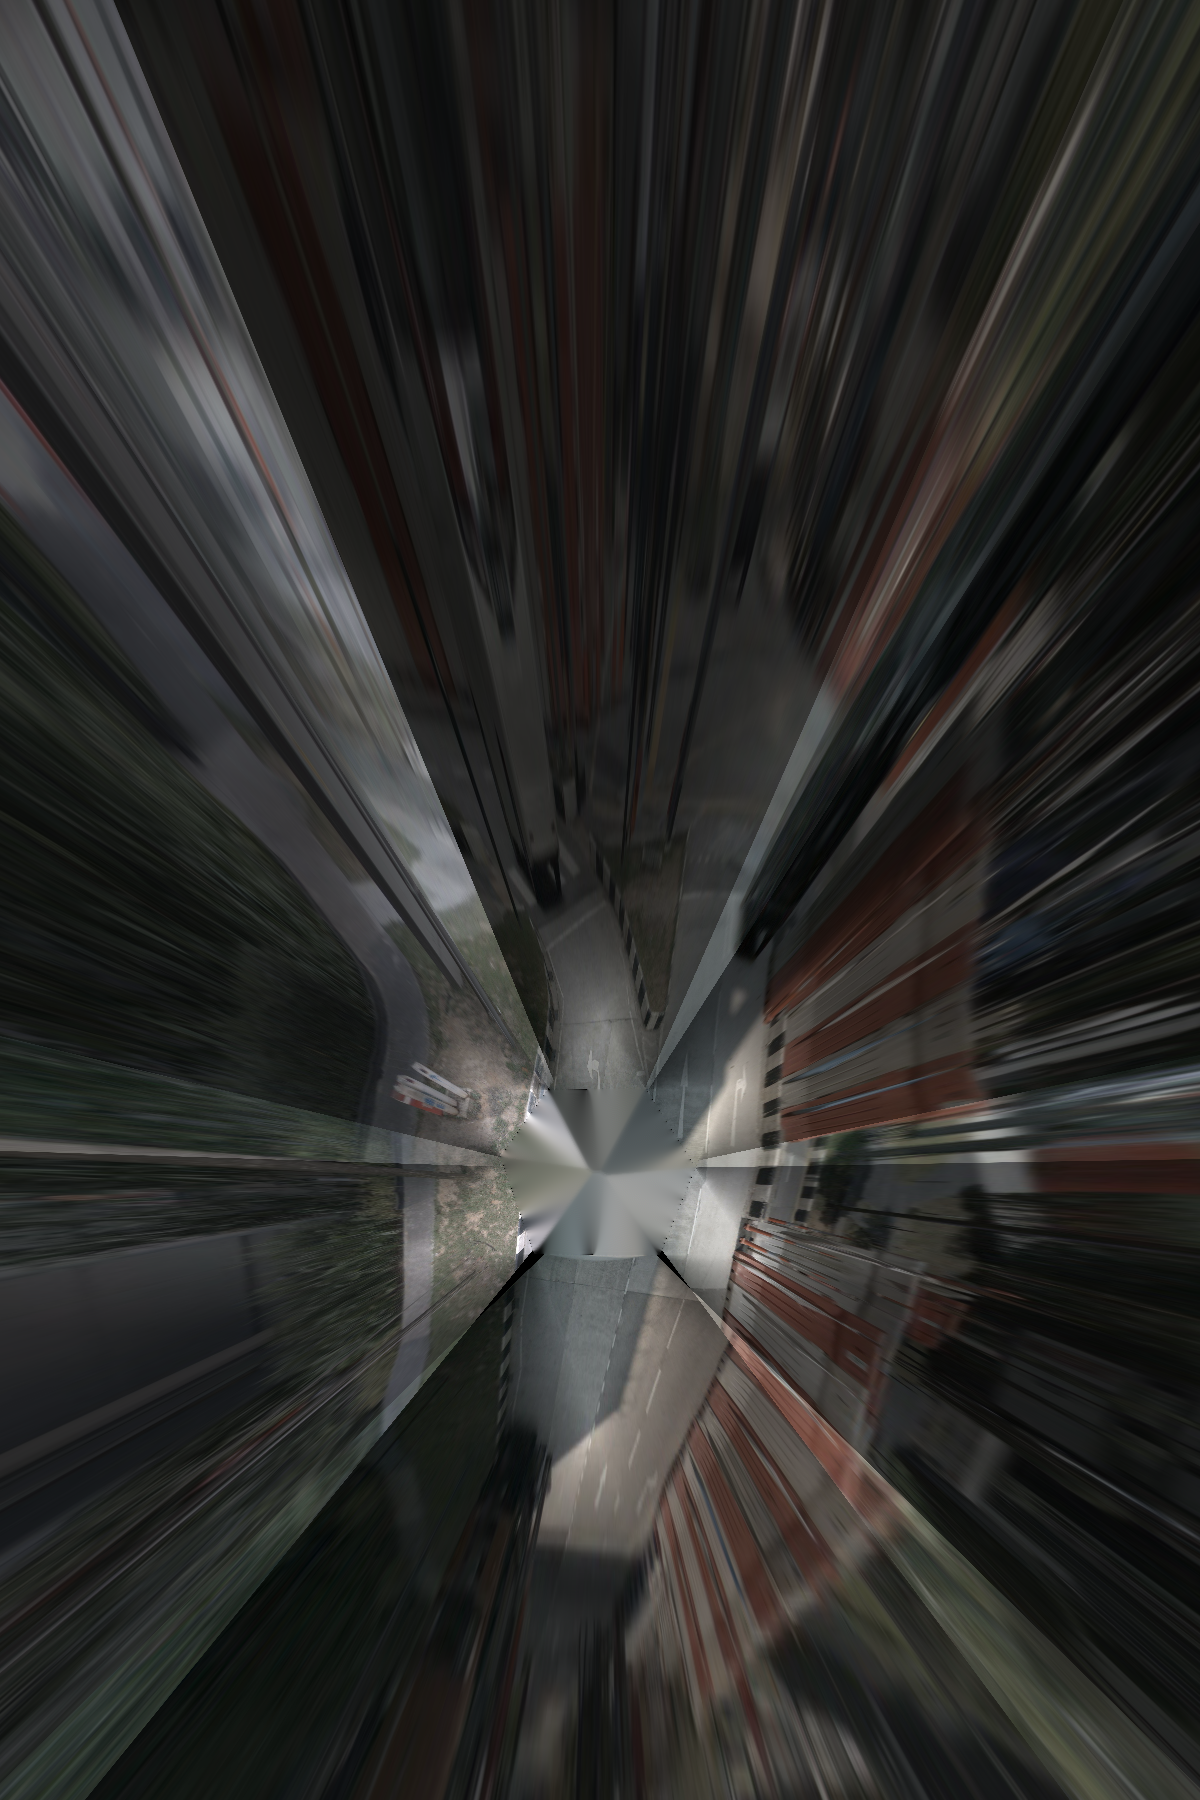
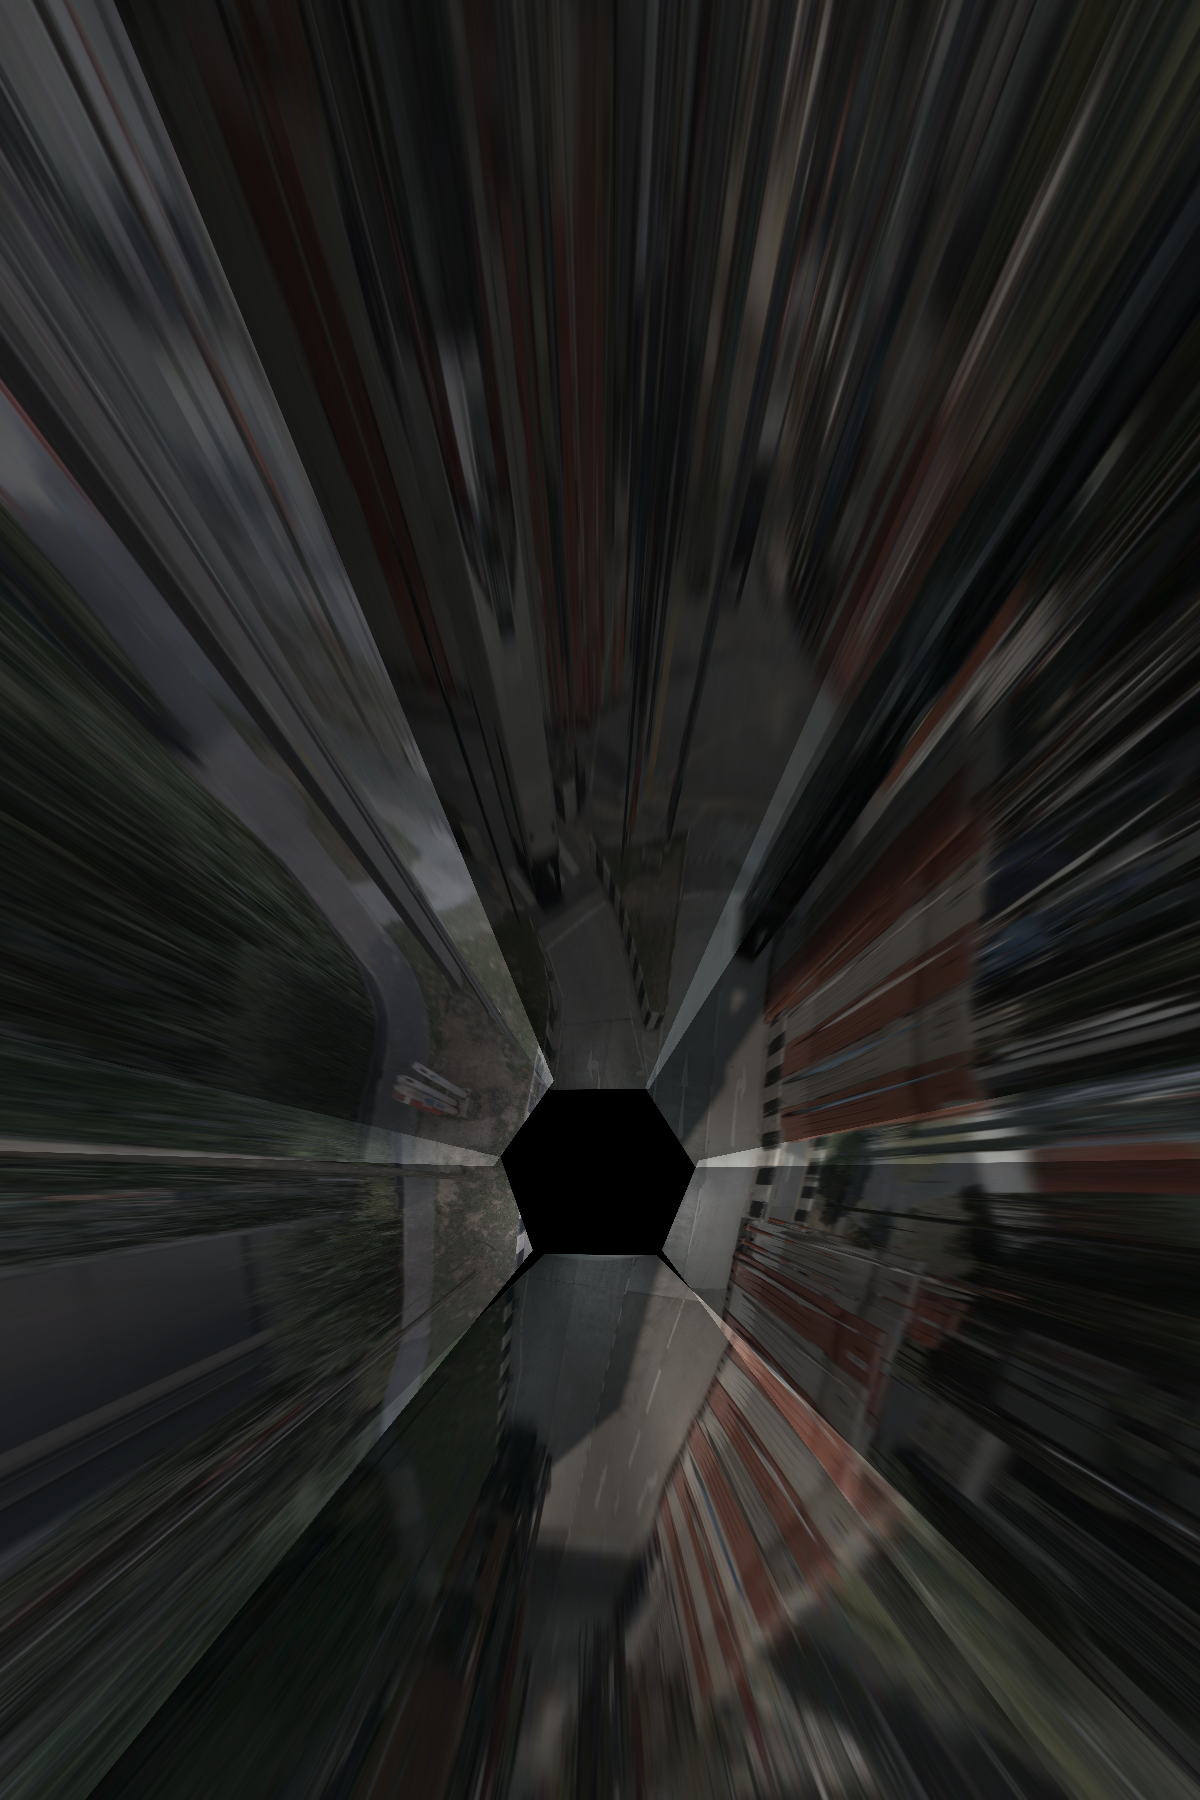
fix

diff --git a/runProjection.py b/runProjection.py
@@ -4,10 +4,26 @@ from __future__ import annotations
 
 import argparse
 import os
+import sys
 from typing import Dict, Tuple, Optional
 
 import cv2
 import numpy as np
+
+# --- Robust import path setup (fixes ModuleNotFoundError on Windows/EC2) ---
+# Ensure Python can import modules that live either:
+#   1) next to runProjection.py   (./bev_grid.py)
+#   2) inside a subfolder         (./bev/bev_grid.py)
+_THIS_DIR = os.path.dirname(os.path.abspath(__file__))
+
+# Always allow importing from the script directory
+if _THIS_DIR not in sys.path:
+    sys.path.insert(0, _THIS_DIR)
+
+# Also allow importing from ./bev even if it's not a Python package (no __init__.py)
+_BEV_DIR = os.path.join(_THIS_DIR, "bev")
+if os.path.isdir(_BEV_DIR) and _BEV_DIR not in sys.path:
+    sys.path.insert(0, _BEV_DIR)
 
 from nuscenes_io import (
     init_nuscenes,
@@ -16,10 +32,11 @@ from nuscenes_io import (
     get_camera_calibration_for_sample,
     get_ego_pose_for_sample_data,
     iter_scene_samples,
+    select_sample,
 )
 from bev_grid import BEVGrid
 from projection import warp_image_to_bev
-from stitching import feather_weight
+from stitching import feather_weight, stitch_warped, wsum_to_vis
 from utils import invert_se3
 
 
@@ -131,17 +148,81 @@ def accumulate_scene_world_bev(
     return out, wsum
 
 
+def project_single_sample(
+    nusc,
+    scene: str,
+    index: int,
+    grid: BEVGrid,
+    z_plane: float = 0.0,
+    feather_px: int = 80,
+    fill_holes: bool = False,
+    inpaint_radius: int = 5,
+    save_per_camera: bool = False,
+    out_dir: str = "",
+) -> Tuple[np.ndarray, np.ndarray]:
+    """
+    Project a single sample's 6 cameras into ego-frame BEV.
+    """
+    selection = select_sample(nusc, scene=scene, index=index)
+    sample = nusc.get("sample", selection.sample_token)
+    
+    cam_sd_tokens = {ch: cam.sample_data_token for ch, cam in selection.cameras.items()}
+    calibs = get_camera_calibration_for_sample(nusc, cam_sd_tokens)
+    
+    warped_by_cam: Dict[str, np.ndarray] = {}
+    valid_by_cam: Dict[str, np.ndarray] = {}
+    
+    for ch, cam_frame in selection.cameras.items():
+        img_bgr = cv2.imread(cam_frame.filename_abs, cv2.IMREAD_COLOR)
+        if img_bgr is None:
+            raise FileNotFoundError(f"Failed to read image: {cam_frame.filename_abs}")
+        
+        calib = calibs[ch]
+        warped, valid = warp_image_to_bev(
+            img_bgr=img_bgr,
+            grid=grid,
+            K=calib.K,
+            T_cam_from_ego=calib.T_cam_from_ego,
+            z_plane=z_plane,
+        )
+        
+        warped_by_cam[ch] = warped
+        valid_by_cam[ch] = valid
+        
+        if save_per_camera and out_dir:
+            cv2.imwrite(os.path.join(out_dir, f"{ch}_bev.png"), warped)
+    
+    stitched, wsum = stitch_warped(
+        warped_by_cam,
+        valid_by_cam,
+        feather_px=feather_px,
+        fill_holes=fill_holes,
+        inpaint_radius=inpaint_radius,
+    )
+    
+    return stitched, wsum
+
+
 def main():
     ap = argparse.ArgumentParser()
     ap.add_argument("--dataroot", required=True)
     ap.add_argument("--version", default="v1.0-mini")
     ap.add_argument("--scene", required=True, help="scene token or name like scene-0061")
 
-    # Output
+    # Single sample mode
+    ap.add_argument("--index", type=int, default=None, help="sample index within scene (enables single-sample mode)")
+    
+    # Output (single sample mode)
+    ap.add_argument("--out", default=None, help="output BEV image (single-sample mode)")
+    ap.add_argument("--out_dir", default="", help="output directory for single-sample mode")
+    ap.add_argument("--save_per_camera", action="store_true", help="save per-camera BEV images")
+    ap.add_argument("--save_wsum", action="store_true", help="save weight sum visualization")
+    
+    # Output (world mosaic mode)
     ap.add_argument("--out_bev", default="world_bev.png")
-    ap.add_argument("--out_wsum", default="world_wsum.png")
+    ap.add_argument("--out_wsum_file", default="world_wsum.png")
 
-    # World grid / bounds
+    # Grid / bounds
     ap.add_argument("--res", type=float, default=0.2, help="meters per pixel")
     ap.add_argument("--pad", type=float, default=60.0, help="padding around trajectory for auto-bounds (m)")
     ap.add_argument("--x_min", type=float, default=None)
@@ -149,16 +230,20 @@ def main():
     ap.add_argument("--y_min", type=float, default=None)
     ap.add_argument("--y_max", type=float, default=None)
 
-    # Frame range
+    # Frame range (world mosaic mode)
     ap.add_argument("--start", type=int, default=0)
     ap.add_argument("--end", type=int, default=None)
     ap.add_argument("--step", type=int, default=1)
 
     # Geometry / blending
-    ap.add_argument("--z_plane_rel_ego", type=float, default=0.0)
+    ap.add_argument("--z_plane", type=float, default=0.0, help="ground plane height in ego frame (single-sample mode)")
+    ap.add_argument("--z_plane_rel_ego", type=float, default=0.0, help="ground plane relative to ego (world mosaic mode)")
     ap.add_argument("--feather_px", type=int, default=80)
+    ap.add_argument("--fill_holes", action="store_true", help="Visual-only: inpaint wsum==0 pixels (single-sample mode)")
+    ap.add_argument("--inpaint_radius", type=int, default=5, help="Inpaint radius for hole filling")
     ap.add_argument("--roi_vmin", type=float, default=None)
     ap.add_argument("--roi_vmax", type=float, default=None)
+    ap.add_argument("--no_flip_axes", action="store_true", help="Keep legacy axes (x down, y right)")
 
     args = ap.parse_args()
 
@@ -166,6 +251,71 @@ def main():
     scene_token, scene_name = resolve_scene_token(nusc, args.scene)
     print(f"[INFO] scene={scene_name} token={scene_token}")
 
+    # Single-sample mode
+    if args.index is not None:
+        # Use provided bounds or defaults for single-sample
+        x_min = args.x_min if args.x_min is not None else -30.0
+        x_max = args.x_max if args.x_max is not None else 60.0
+        y_min = args.y_min if args.y_min is not None else -30.0
+        y_max = args.y_max if args.y_max is not None else 30.0
+        
+        print(f"[INFO] single-sample mode: index={args.index}")
+        print(f"[INFO] ego-frame bounds: x[{x_min:.1f},{x_max:.1f}] y[{y_min:.1f},{y_max:.1f}] res={args.res}")
+        
+        grid = BEVGrid(
+            x_min=x_min,
+            x_max=x_max,
+            y_min=y_min,
+            y_max=y_max,
+            res=float(args.res),
+            flip_x=not args.no_flip_axes,
+            flip_y=not args.no_flip_axes,
+        )
+        
+        # Determine output directory
+        if args.out_dir:
+            out_dir = args.out_dir
+        elif args.out:
+            out_dir = os.path.dirname(args.out) or ""
+        else:
+            out_dir = ""
+        
+        if out_dir:
+            os.makedirs(out_dir, exist_ok=True)
+        
+        # Determine output path
+        if args.out:
+            out_path = args.out
+            # If out_dir is set but out_path doesn't have a directory, put it in out_dir
+            if out_dir and not os.path.dirname(out_path):
+                out_path = os.path.join(out_dir, os.path.basename(out_path))
+        else:
+            out_path = os.path.join(out_dir, "stitched_bev.png") if out_dir else "stitched_bev.png"
+        
+        stitched, wsum = project_single_sample(
+            nusc=nusc,
+            scene=args.scene,
+            index=args.index,
+            grid=grid,
+            z_plane=args.z_plane,
+            feather_px=args.feather_px,
+            fill_holes=args.fill_holes,
+            inpaint_radius=args.inpaint_radius,
+            save_per_camera=args.save_per_camera,
+            out_dir=out_dir,
+        )
+        
+        cv2.imwrite(out_path, stitched)
+        print(f"Saved stitched BEV: {out_path}")
+        
+        if args.save_wsum:
+            wsum_path = os.path.join(out_dir, "wsum.png") if out_dir else "wsum.png"
+            cv2.imwrite(wsum_path, wsum_to_vis(wsum))
+            print(f"Saved wsum: {wsum_path}")
+        
+        return
+    
+    # World mosaic mode
     # Auto-bounds unless user provides explicit bounds
     if args.x_min is None or args.x_max is None or args.y_min is None or args.y_max is None:
         x_min, x_max, y_min, y_max = build_auto_bounds_world(nusc, scene_token, pad_m=float(args.pad))
@@ -196,8 +346,8 @@ def main():
     else:
         wsum_vis = (np.clip(wsum / m, 0.0, 1.0) * 255.0).astype(np.uint8)
 
-    cv2.imwrite(args.out_wsum, wsum_vis)
-    print(f"[DONE] wrote {args.out_bev} and {args.out_wsum}")
+    cv2.imwrite(args.out_wsum_file, wsum_vis)
+    print(f"[DONE] wrote {args.out_bev} and {args.out_wsum_file}")
 
 
 if __name__ == "__main__":
